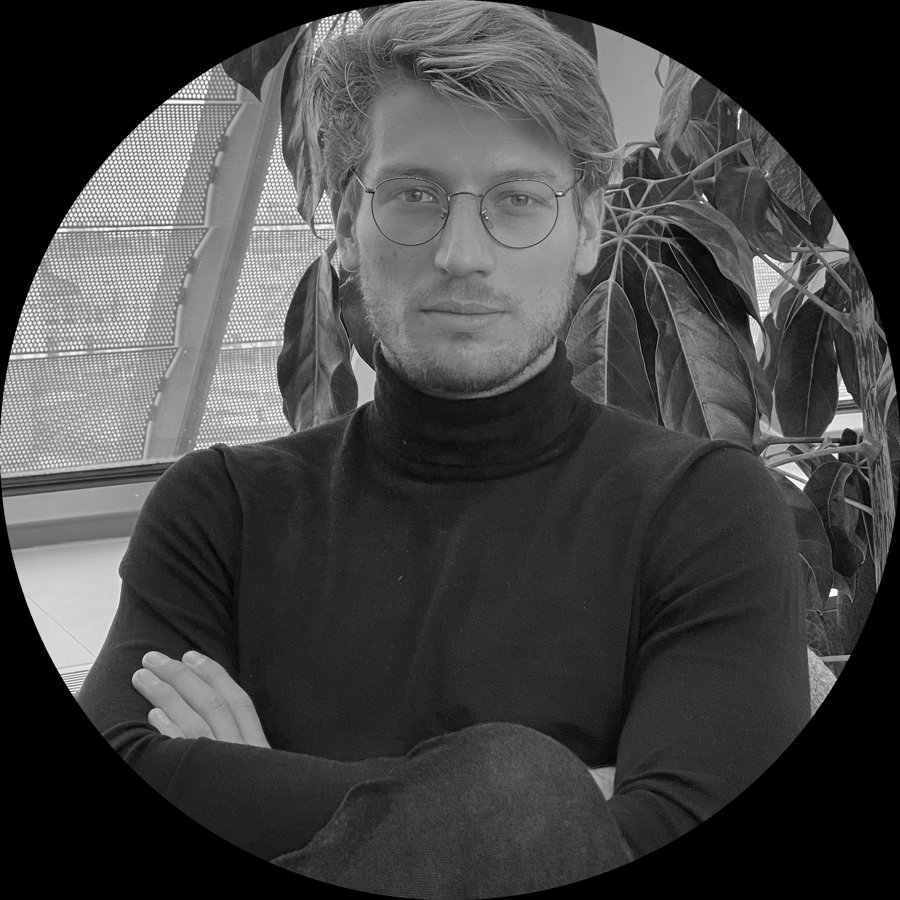
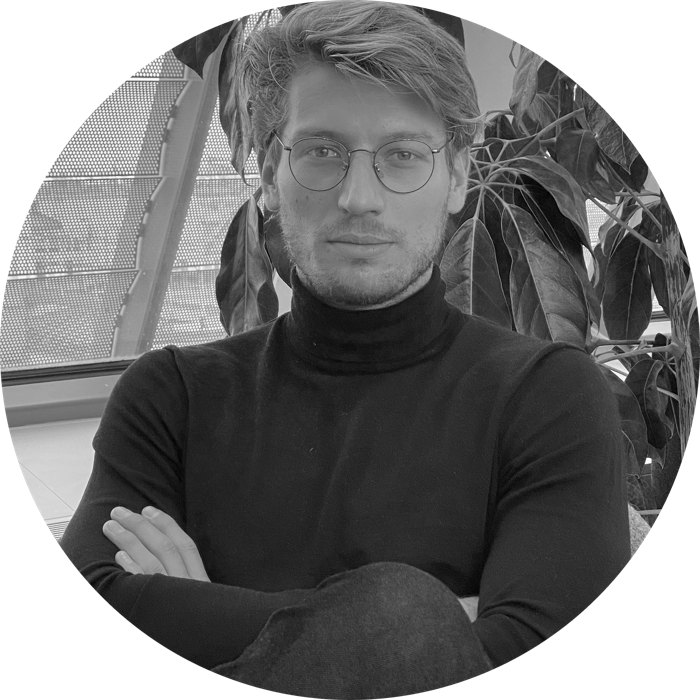
home: force light theme, fix nav duplicate, restore profile photo on white, drop placeholder thumbnails
Claude-Session: https://claude.ai/code/session_019uuC7GFuQ3tK1YFpmZgrZ9

diff --git a/_sass/_site.scss b/_sass/_site.scss
@@ -35,7 +35,7 @@ footer.fixed-bottom, footer.sticky-bottom { background: $bar; color: #cfd4d9; a 
 // Profile card
 .profile-card {
   border: 1px solid $rule; border-radius: 6px; padding: 10px; background: #fff; box-shadow: 0 1px 3px rgba(0,0,0,0.06);
-  img { width: 100%; border-radius: 4px; display: block; }
+  img { width: 100%; border-radius: 50%; display: block; }
   .profile-icons { display: flex; gap: 0.5rem; justify-content: center; margin: 0.8rem 0 0.6rem;
     a { display: inline-flex; align-items: center; justify-content: center; width: 30px; height: 30px; border-radius: 50%;
         background: #f1f3f5; color: $ink; font-size: 0.95rem; &:hover { background: $bar; color: #fff; } }

diff --git a/_pages/about.md b/_pages/about.md
@@ -2,8 +2,6 @@
 layout: home
 title: about
 permalink: /
-nav: true
-nav_order: 0
 
 profile:
   image: prof_pic.jpg
@@ -31,11 +29,9 @@ news:
   - date: Aug 2026
     title: Second Opinion 3D is live
     text: Pearl's CBCT product, built on the 3D pathology program, launched commercially — seven months from first model to release.
-    img: assets/img/news/cbct.jpg
   - date: Feb 2026
     title: Leading the 3D CBCT pathology program
     text: Took over technical leadership of the program; second FDA 510(k) submission prepared and filed during the year.
-    img: assets/img/news/cbct.jpg
   - date: Jan 2025
     title: Joined Pearl AI
     text: Senior ML Scientist on the first dental-AI platform cleared by the FDA for both 2D and 3D imaging. First mandate — the caries model behind the core product.
